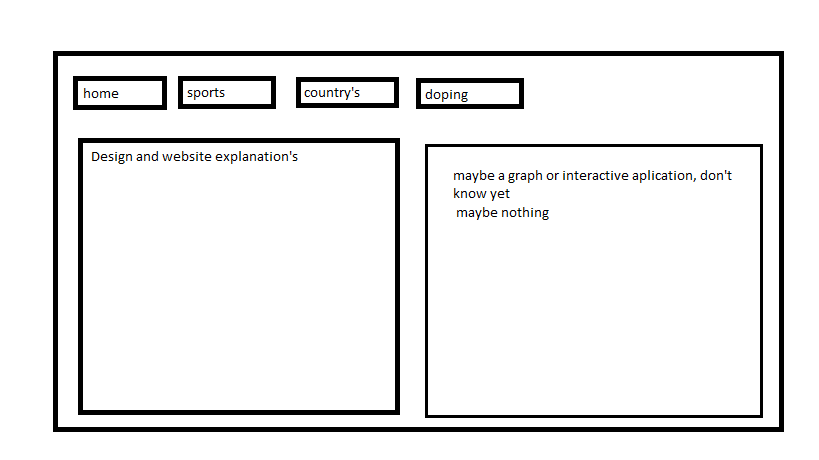
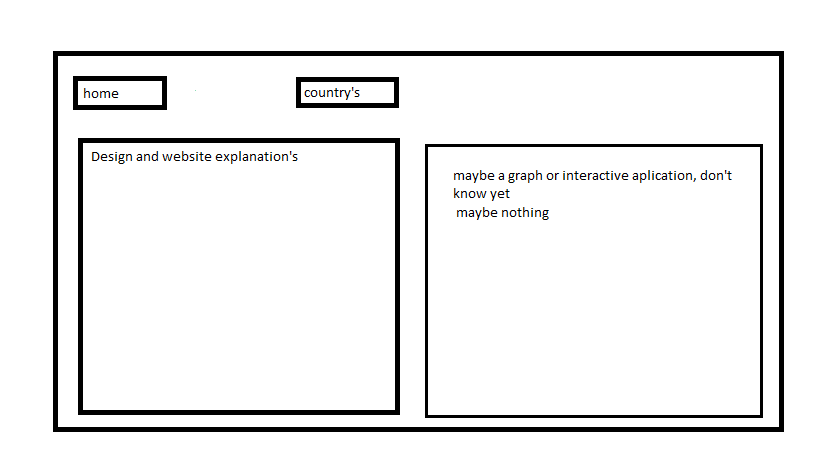
first

Changed region(s): [[0.4884, 0.1522, 0.641, 0.2435], [0.2137, 0.1522, 0.3358, 0.2435]]

diff --git a/README.md b/README.md
@@ -7,17 +7,9 @@ homepage
 
 ![alt text](doc/Homepage.png)
 
-result page
-
-![alt text](doc/sports.png)
-
 country page
 
 ![alt text](doc/country's.png)
-
-doping page(optional)
-
-![alt text](doc/doping(optional).png)
 
 - a website that gives a visualisation of various Olympic results through the years and the medals won by country's through the years
 
